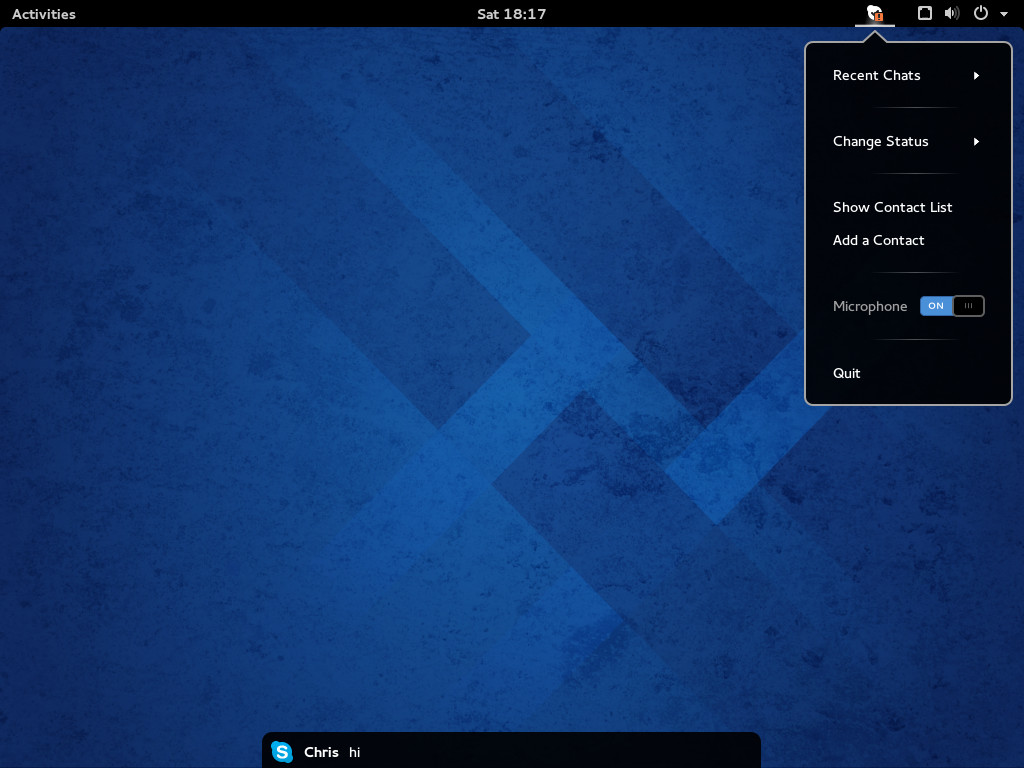
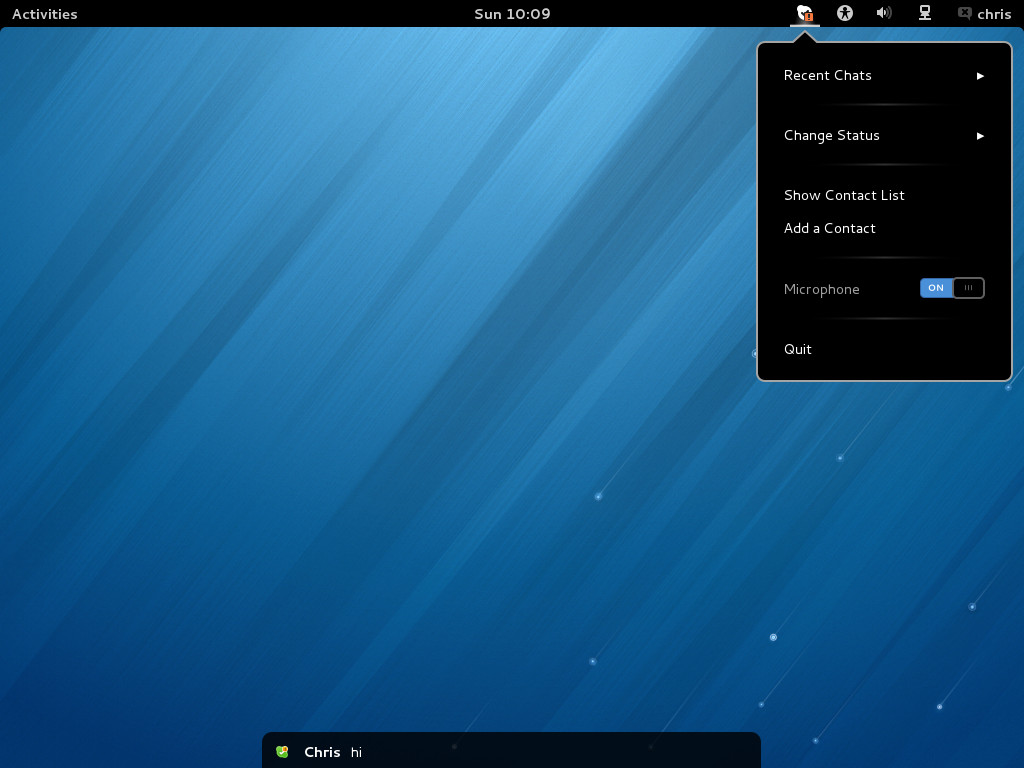
adds 3.6 adaptions

diff --git a/SkypeNotification@chrisss404.gmail.com/skypeSearchProvider.js b/SkypeNotification@chrisss404.gmail.com/skypeSearchProvider.js
@@ -22,10 +22,7 @@
 const Lang = imports.lang;
 
 const GLib = imports.gi.GLib;
-const Shell = imports.gi.Shell;
 const St = imports.gi.St
-
-const Util = imports.misc.util;
 
 const IconGrid = imports.ui.iconGrid;
 const Main = imports.ui.main;
@@ -36,8 +33,7 @@ const SkypeSearchProvider = new Lang.Class({
     Name: "SkypeSearchProvider",
 
     _init: function(title, skype) {
-        this.id = title;
-        this.appInfo = Shell.AppSystem.get_default().lookup_app('skype.desktop').get_app_info();
+        this.title = title;
 
         this._proxy = skype._proxy;
         this._focusSkypeMainWindow = Lang.bind(skype, skype._focusSkypeMainWindow);
@@ -62,7 +58,7 @@ const SkypeSearchProvider = new Lang.Class({
         callback(metas);
     },
 
-    _search: function(haystack, needles, callback) {
+    _search: function(haystack, needles) {
         if(haystack.length == 0) {
             return;
         }
@@ -91,51 +87,51 @@ const SkypeSearchProvider = new Lang.Class({
             result = result.concat(tmp[i]);
         }
 
-        if(typeof this.searchSystem === "object") {
-            //Gnome 3.8
-            if(typeof this.searchSystem.pushResults === "function") {
-                this.searchSystem.pushResults(this, result);
-            }
-            //Gnome 3.10
-            if(typeof this.searchSystem.setResults === "function") {
-                this.searchSystem.setResults(this, result);
-            }
-        }
-        
-        //Gnome 3.12
-        if(typeof callback === "function") {
-            callback(result);
-        }
+        this.searchSystem.pushResults(this, result);
     },
 
     filterResults: function(results, maxNumber) {
         return results.slice(0, maxNumber);
     },
 
-    getInitialResultSet: function(terms, callback, cancelable) {
-        this._search(this._contacts, terms, callback);
+    getInitialResultSet: function(terms) {
+        this._search(this._contacts, terms);
     },
 
-    getSubsearchResultSet: function(previousResults, terms, callback, cancelable) {
-        this._search(this._contacts, terms, callback);
+    getSubsearchResultSet: function(previousResults, terms) {
+        this._search(this._contacts, terms);
+    },
+
+    createResultActor: function(resultMeta, terms) {
+        let actor = new St.Button({ style_class: "app-well-app app-folder",
+            button_mask: St.ButtonMask.ONE,
+            toggle_mode: true,
+            can_focus: true,
+            x_fill: true,
+            y_fill: true });
+
+        let icon = new IconGrid.BaseIcon(resultMeta["name"],
+                 { createIcon: Lang.bind(this, this._createIcon) });
+        actor.id = resultMeta["id"];
+        actor.set_child(icon.actor);
+        actor.label_actor = icon.label;
+        actor.connect("clicked", Lang.bind(this, this.activateResult));
+
+        return actor;
     },
 
     _createIcon: function(size) {
         return new St.Icon({ icon_name: "skype",
-            icon_size: size });
+            icon_size: size,
+            style_class: "app-well-app",
+            track_hover: true });
     },
 
     activateResult: function(event) {
-        if(this._contacts[event]) {
-            this._proxy.InvokeRemote("OPEN IM " + this._contacts[event].handle);
+        if(this._contacts[event.id]) {
+            this._proxy.InvokeRemote("OPEN IM " + this._contacts[event.id].handle);
             GLib.timeout_add(GLib.PRIORITY_DEFAULT, 200, Lang.bind(this, this._focusSkypeChatWindow));
             Main.overview.hide();
         }
-    },
-
-    launchSearch: function(terms) {
-        Util.spawn(["skype"]);
-        GLib.timeout_add(GLib.PRIORITY_DEFAULT, 200, Lang.bind(this, this._focusSkypeMainWindow));
-        Main.overview.hide();
     }
 });

diff --git a/SkypeNotification@chrisss404.gmail.com/skype.js b/SkypeNotification@chrisss404.gmail.com/skype.js
@@ -37,36 +37,30 @@ const SkypeMenuButton = Me.imports.skypeMenuButton.SkypeMenuButton;
 const SkypeSearchProvider = Me.imports.skypeSearchProvider.SkypeSearchProvider;
 
 
-const SkypeIface = '<node> \
-<interface name="com.Skype.API"> \
-<method name="Invoke"> \
-    <arg type="s" direction="in"/> \
-    <arg type="s" direction="out"/> \
-</method> \
-</interface> \
-</node>';
+const SkypeIface = <interface name="com.Skype.API">
+<method name="Invoke">
+    <arg type="s" direction="in"/>
+    <arg type="s" direction="out"/>
+</method>
+</interface>;
 
-const SkypeIfaceClient = '<node> \
-<interface name="com.Skype.API.Client"> \
-<method name="Notify"> \
-    <arg type="s" direction="in"/> \
-</method> \
-</interface> \
-</node>';
+const SkypeIfaceClient = <interface name="com.Skype.API.Client">
+<method name="Notify">
+    <arg type="s" direction="in"/>
+</method>
+</interface>;
 
-const SkypeIfaceExtension = '<node> \
-<interface name="com.Skype.API.Extension"> \
-<method name="Notify"> \
-    <arg type="s" direction="in" name="type"/> \
-    <arg type="s" direction="in" name="sname"/> \
-    <arg type="s" direction="in" name="sskype"/> \
-    <arg type="s" direction="in" name="smessage"/> \
-    <arg type="s" direction="in" name="fpath"/> \
-    <arg type="s" direction="in" name="fsize"/> \
-    <arg type="s" direction="in" name="fname"/> \
-</method> \
-</interface> \
-</node>';
+const SkypeIfaceExtension = <interface name="com.Skype.API.Extension">
+<method name="Notify">
+    <arg type="s" direction="in" name="type"/>
+    <arg type="s" direction="in" name="sname"/>
+    <arg type="s" direction="in" name="sskype"/>
+    <arg type="s" direction="in" name="smessage"/>
+    <arg type="s" direction="in" name="fpath"/>
+    <arg type="s" direction="in" name="fsize"/>
+    <arg type="s" direction="in" name="fname"/>
+</method>
+</interface>;
 
 const SkypeProxy = Gio.DBusProxy.makeProxyWrapper(SkypeIface);
 
@@ -250,12 +244,12 @@ const Skype = new Lang.Class({
 
     _updateNotifySource: function() {
         let source = null;
-        let items = Main.messageTray.getSources();
+        let items = Main.messageTray.getSummaryItems();
 
         let item = null;
         let numberOfNotifications = -1;
         for(let index in items) {
-            item = items[index];
+            item = items[index].source;
             if(item.title == "Skype") {
                 if(item.count > numberOfNotifications) {
                     source = item;
@@ -338,7 +332,7 @@ const Skype = new Lang.Class({
         }
         body = body.join("").trim();
 
-        let params = { "gicon": Gio.icon_new_for_string(icon) };
+        let params = { };
         if(this._notificationSource.count == 0) {
             this._activeNotification = new MessageTray.Notification(this._notificationSource, 
                     summary, body, params);

diff --git a/SkypeNotification@chrisss404.gmail.com/extension.js b/SkypeNotification@chrisss404.gmail.com/extension.js
@@ -21,14 +21,7 @@
 
 const Me = imports.misc.extensionUtils.getCurrentExtension();
 
-//Gnome 3.8
-try {
-    const IMStatusChooserItem = imports.ui.userMenu.IMStatusChooserItem;
-} catch(e) { }
-//Gnome 3.10 & newer
-try {
-    const MessageTrayMenuButton = imports.ui.messageTray.MessageTrayMenuButton;
-} catch(e) { }
+const IMStatusChooserItem = imports.ui.userMenu.IMStatusChooserItem;
 
 const Skype = Me.imports.skype.Skype;
 
@@ -42,33 +35,18 @@ function init() {
 function enable() {
     skype.enable();
 
-    if(typeof MessageTrayMenuButton !== "undefined") {
-        MessageTrayMenuButton.prototype._iconForPresenceOrig = MessageTrayMenuButton.prototype._iconForPresence;
-        MessageTrayMenuButton.prototype._iconForPresence = function(presence) {
-            skype.updateSkypeStatus(presence);
-            return this._iconForPresenceOrig(presence);
-        };
-    } else if(typeof IMStatusChooserItem !== "undefined") {
-        IMStatusChooserItem.prototype._setComboboxPresenceOrig = IMStatusChooserItem.prototype._setComboboxPresence;
-        IMStatusChooserItem.prototype._setComboboxPresence = function(presence) {
-            skype.updateSkypeStatus(presence);
-            this._setComboboxPresenceOrig(presence);
-        };
-    }
+    IMStatusChooserItem.prototype._setComboboxPresenceOrig = IMStatusChooserItem.prototype._setComboboxPresence;
+    IMStatusChooserItem.prototype._setComboboxPresence = function(presence) {
+        skype.updateSkypeStatus(presence);
+        this._setComboboxPresenceOrig(presence);
+    };
 }
 
 function disable() {
     skype.disable();
 
-    if(typeof MessageTrayMenuButton !== "undefined") {
-        if(typeof MessageTrayMenuButton.prototype._iconForPresenceOrig === "function") {
-            MessageTrayMenuButton.prototype._iconForPresence = MessageTrayMenuButton.prototype._iconForPresenceOrig;
-            MessageTrayMenuButton.prototype._iconForPresenceOrig = undefined;
-        }
-    } else if(typeof IMStatusChooserItem !== "undefined") {
-        if(typeof IMStatusChooserItem.prototype._setComboboxPresenceOrig === "function") {
-            IMStatusChooserItem.prototype._setComboboxPresence = IMStatusChooserItem.prototype._setComboboxPresenceOrig;
-            IMStatusChooserItem.prototype._setComboboxPresenceOrig = undefined;
-        }
+    if(typeof IMStatusChooserItem.prototype._setComboboxPresenceOrig === "function") {
+        IMStatusChooserItem.prototype._setComboboxPresence = IMStatusChooserItem.prototype._setComboboxPresenceOrig;
+        IMStatusChooserItem.prototype._setComboboxPresenceOrig = undefined;
     }
 }
